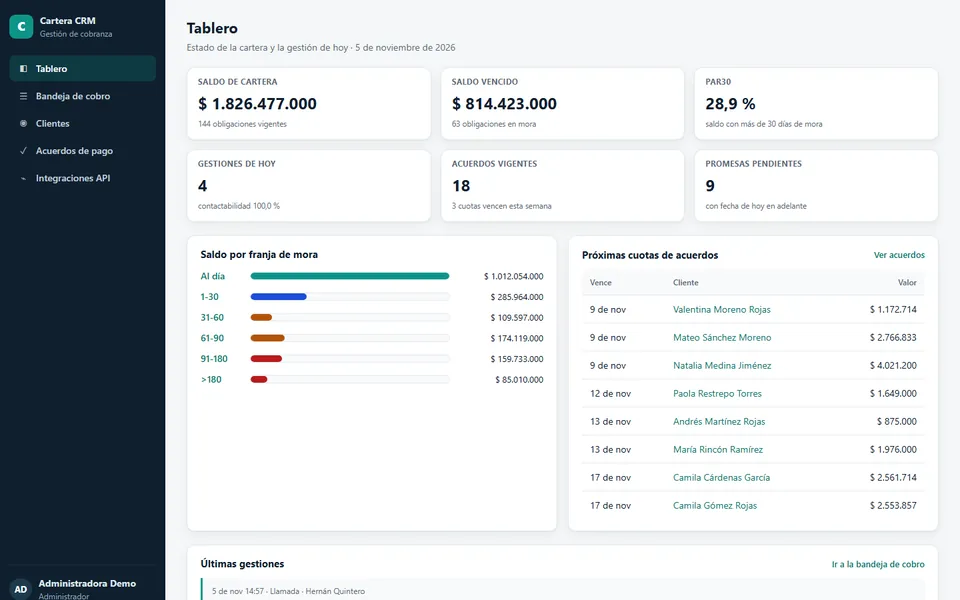
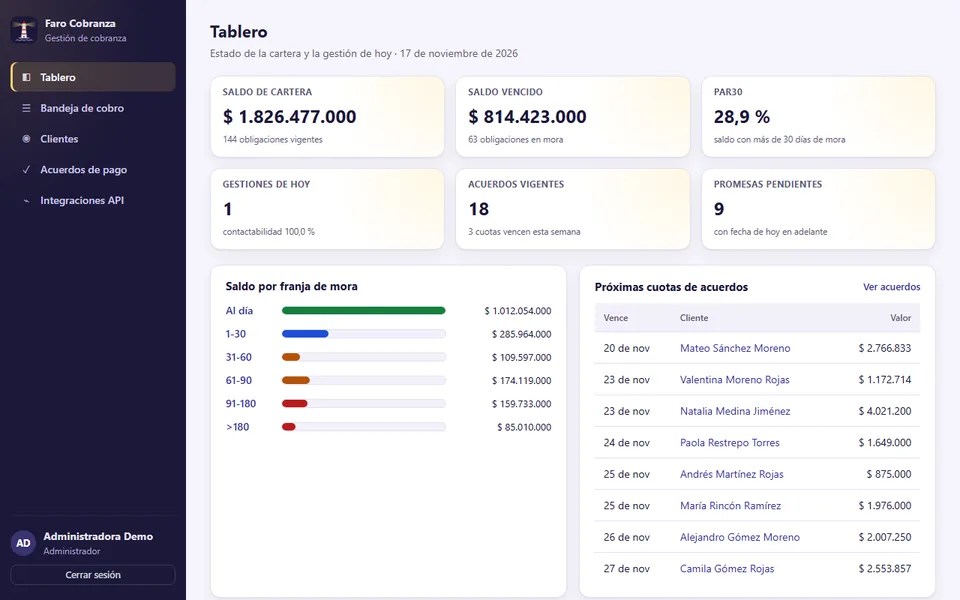
feat(proyectos): cada proyecto con su identidad visual en el portafolio
Capturas nuevas de Colmena, Torre, Vigía, Radar y Faro con la identidad propia
de cada uno, y el color de cada proyecto como filete y marcador en su tarjeta
(el sitio conserva su marca). Vigía enlaza ahora a su demo en vivo. Se suman
las imágenes de vista previa (1200x630) que usan las demos al compartirse.

diff --git a/index.html b/index.html
@@ -99,9 +99,9 @@
           <p>Código abierto, documentado y con integración continua. Juntos modelan una operación de cobranza ficticia: bots que trabajan, una torre que los vigila, un CRM para los gestores y un radar que mide resultados.</p>
         </header>
 
-        <article class="project">
+        <article class="project project--colmena">
           <a class="project__media" href="https://darwinmontiel.github.io/colmena-rpa/" target="_blank" rel="noopener">
-            <img src="assets/img/colmena-rpa.webp" width="960" height="600" loading="lazy" alt="Panel de operación de Colmena RPA con indicadores, obreras y tareas">
+            <img src="assets/img/colmena-rpa.webp" width="960" height="600" loading="lazy" alt="Panel de operación de Colmena RPA: indicadores, el panal de obreras y las tareas">
           </a>
           <div class="project__body">
             <p class="project__kicker">Automatización · Mensajería · Fiabilidad</p>
@@ -117,7 +117,7 @@
           </div>
         </article>
 
-        <article class="project project--reverse">
+        <article class="project project--reverse project--torre">
           <a class="project__media" href="https://darwinmontiel.github.io/torre-de-control/" target="_blank" rel="noopener">
             <img src="assets/img/torre-de-control.webp" width="960" height="600" loading="lazy" alt="Tablero de Torre de Control con colas, bots, servidores y alertas en tiempo real">
           </a>
@@ -135,9 +135,9 @@
           </div>
         </article>
 
-        <article class="project">
-          <a class="project__media" href="https://github.com/DarwinMontiel/vigia-ocr" target="_blank" rel="noopener">
-            <img src="assets/img/vigia-ocr.webp" width="960" height="600" loading="lazy" alt="Banco de evaluación de Vigía OCR comparando el acierto de cada motor">
+        <article class="project project--vigia">
+          <a class="project__media" href="https://darwinmontiel.github.io/vigia-ocr/" target="_blank" rel="noopener">
+            <img src="assets/img/vigia-ocr.webp" width="960" height="600" loading="lazy" alt="Demo de Vigía OCR: expediente de lectura con la cadena OCR paso a paso">
           </a>
           <div class="project__body">
             <p class="project__kicker">RPA · Visión · Arquitectura hexagonal</p>
@@ -147,12 +147,13 @@
               <li>Python</li><li>Selenium</li><li>OCR</li><li>SQL Server</li><li>SQLAlchemy</li><li>pytest</li>
             </ul>
             <p class="project__links">
+              <a href="https://darwinmontiel.github.io/vigia-ocr/" target="_blank" rel="noopener">Demo en vivo</a>
               <a href="https://github.com/DarwinMontiel/vigia-ocr" target="_blank" rel="noopener">Código y resultados</a>
             </p>
           </div>
         </article>
 
-        <article class="project project--reverse">
+        <article class="project project--reverse project--radar">
           <a class="project__media" href="https://darwinmontiel.github.io/radar-cartera/" target="_blank" rel="noopener">
             <img src="assets/img/radar-cartera.webp" width="960" height="600" loading="lazy" alt="Tablero de Radar de Cartera con saldo, PAR30, recaudo y franjas de mora">
           </a>
@@ -170,7 +171,7 @@
           </div>
         </article>
 
-        <article class="project">
+        <article class="project project--faro">
           <a class="project__media" href="https://github.com/DarwinMontiel/faro-cobranza" target="_blank" rel="noopener">
             <img src="assets/img/faro-cobranza.webp" width="960" height="600" loading="lazy" alt="Tablero de Faro Cobranza con indicadores y próximas cuotas">
           </a>

diff --git a/assets/css/styles.css b/assets/css/styles.css
@@ -125,6 +125,19 @@ h1, h2, h3 { line-height: 1.2; margin: 0; letter-spacing: -0.01em; }
 .project__media:hover img { transform: scale(1.02); }
 .project__kicker { margin: 0 0 6px; color: var(--accent-strong); font-weight: 700; font-size: 13px; text-transform: uppercase; letter-spacing: .7px; }
 .project h3 { font-size: 26px; }
+/* Cada proyecto tiene su propia identidad visual; su color marca la tarjeta (solo como adorno,
+   el texto sigue en los colores del sitio para no perder contraste). */
+.project { --proyecto: var(--accent); }
+.project--colmena { --proyecto: #f2a516; }
+.project--torre { --proyecto: #39d98a; }
+.project--vigia { --proyecto: #b8392e; }
+.project--radar { --proyecto: #d4a72c; }
+.project--faro { --proyecto: #5b53e6; }
+.project__media { border-top: 4px solid var(--proyecto); }
+.project__kicker::before {
+  content: ""; display: inline-block; width: 10px; height: 10px; margin-right: 8px; border-radius: 2px;
+  background: var(--proyecto); vertical-align: 0;
+}
 .project__body p { margin: 12px 0 0; }
 .project__links { display: flex; gap: 18px; font-weight: 600; }
 
